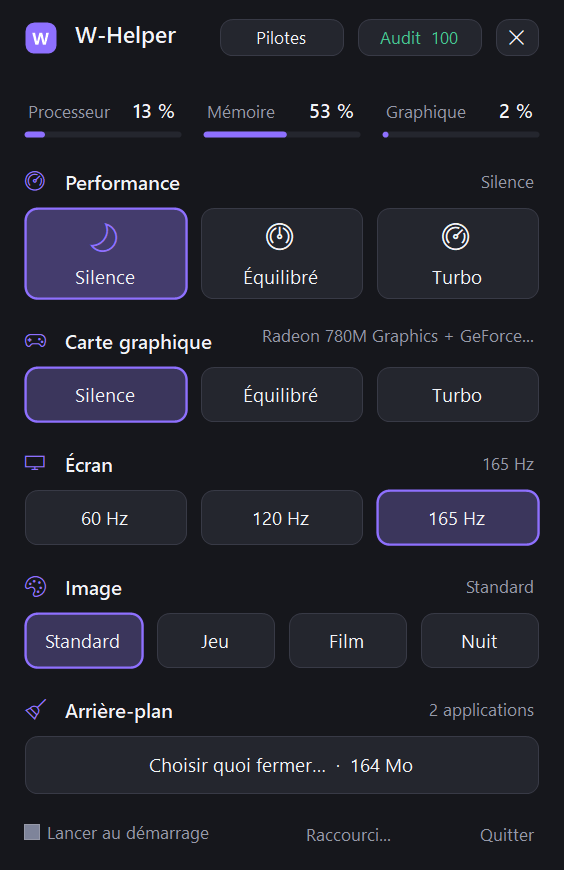
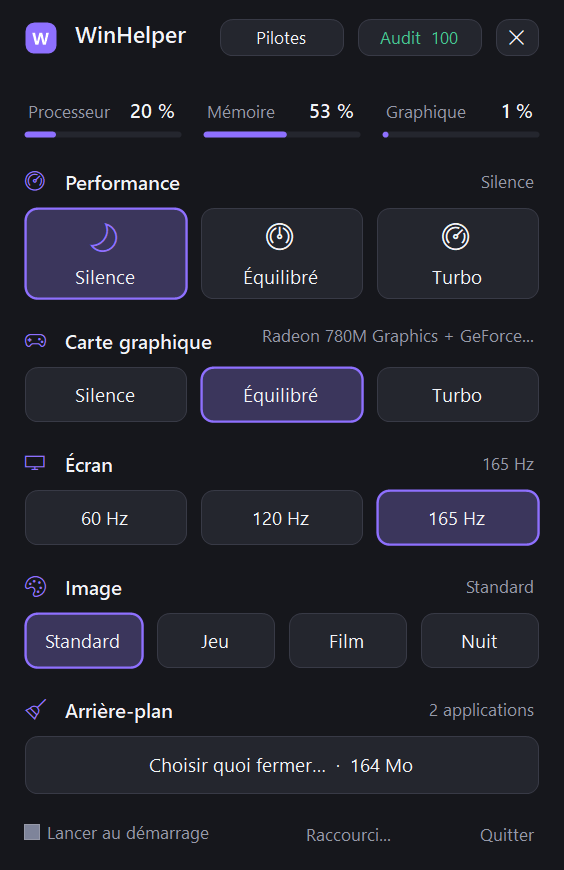
Renommage en WinHelper

diff --git a/README.md b/README.md
@@ -1,16 +1,16 @@
-# W-Helper
+# WinHelper
 
 Un petit panneau de contrôle pour Windows, pensé pour jouer : modes de performance, carte graphique, fréquence d'écran, rendu d'image, pilotes et nettoyage de la mémoire, en un clic. Il fonctionne sur n'importe quel PC, portable ou fixe, quelle que soit la marque.
 
-<img src="panneau.png" alt="Le panneau W-Helper" width="282">
+<img src="panneau.png" alt="Le panneau WinHelper" width="282">
 
-**[Télécharger W-Helper.exe](https://github.com/badb0ol/W-Helper/releases/latest/download/W-Helper.exe)**
+**[Télécharger WinHelper.exe](https://github.com/badb0ol/WinHelper/releases/latest/download/WinHelper.exe)**
 
 Un seul fichier d'environ 150 Ko. Rien à installer, aucun droit administrateur, aucun service en arrière-plan.
 
 ## Démarrer
 
-1. Téléchargez `W-Helper.exe` et lancez-le.
+1. Téléchargez `WinHelper.exe` et lancez-le.
 2. Windows affiche « Windows a protégé votre ordinateur » : l'application n'est pas encore signée. Cliquez sur **Informations complémentaires**, puis **Exécuter quand même**.
 3. Au premier lancement, choisissez la touche qui affichera le panneau (par exemple `Ctrl+Alt+W`). Vous pouvez la changer à tout moment en cliquant dessus en bas du panneau.
 
@@ -34,9 +34,9 @@ Le panneau s'ouvre en bas à droite de l'écran, au-dessus des autres fenêtres.
 - **Rien ne se ferme sans votre accord.** Le bouton Arrière-plan ouvre une liste ; seules les applications cochées sont fermées, et jamais une application dont la fenêtre est ouverte à l'écran.
 - **Carte graphique.** Les modes fonctionnent avec les cartes NVIDIA et AMD (pilote Adrenalin récent). Turbo privilégie les performances maximales chez NVIDIA et active Radeon Anti-Lag chez AMD. Les cartes Intel ne sont pas encore prises en charge.
 - **Pilotes.** « À jour » signifie que Windows Update ne propose rien de plus récent. Le fabricant peut publier une version plus récente sur son site ; un pilote graphique de plus d'un an est signalé avec le lien vers cette page.
-- **Températures et ventilateurs** ne sont pas affichés : les lire demande un pilote système, que W-Helper n'installe pas.
-- **Vie privée.** W-Helper n'envoie rien. La seule connexion est celle de Windows Update, quand la page Pilotes interroge le service de Windows.
-- Vos choix sont gardés dans `%AppData%\W-Helper\settings.json`.
+- **Températures et ventilateurs** ne sont pas affichés : les lire demande un pilote système, que WinHelper n'installe pas.
+- **Vie privée.** WinHelper n'envoie rien. La seule connexion est celle de Windows Update, quand la page Pilotes interroge le service de Windows.
+- Vos choix sont gardés dans `%AppData%\WinHelper\settings.json`.
 
 ## Configuration requise
 
@@ -44,4 +44,4 @@ Windows 10 ou 11, 64 bits. Le .NET Framework 4.8 nécessaire est déjà présent
 
 ## Licence
 
-W-Helper est un logiciel propriétaire, distribué gratuitement. Voir [LICENSE.md](LICENSE.md).
+WinHelper est un logiciel propriétaire, distribué gratuitement. Voir [LICENSE.md](LICENSE.md).

diff --git a/LICENSE.md b/LICENSE.md
@@ -1,8 +1,8 @@
-# Licence de W-Helper
+# Licence de WinHelper
 
 © 2026 badb0ol. Tous droits réservés.
 
-W-Helper est un logiciel propriétaire, distribué gratuitement sous forme de programme exécutable.
+WinHelper est un logiciel propriétaire, distribué gratuitement sous forme de programme exécutable.
 
 Vous pouvez :
 
